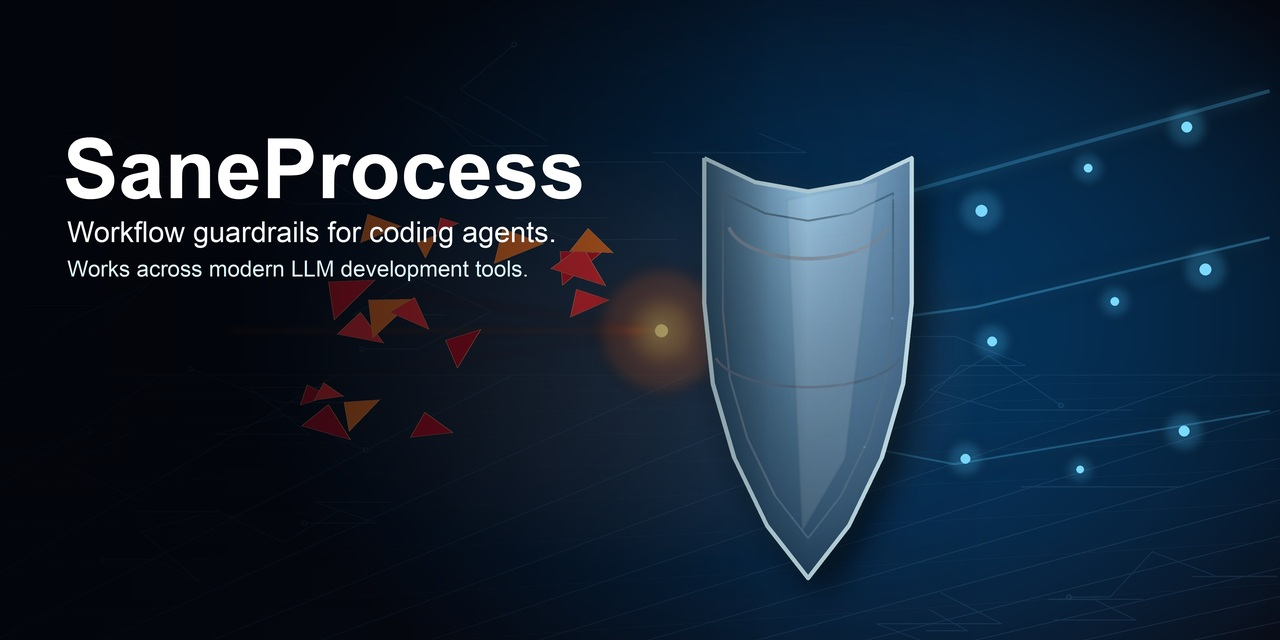
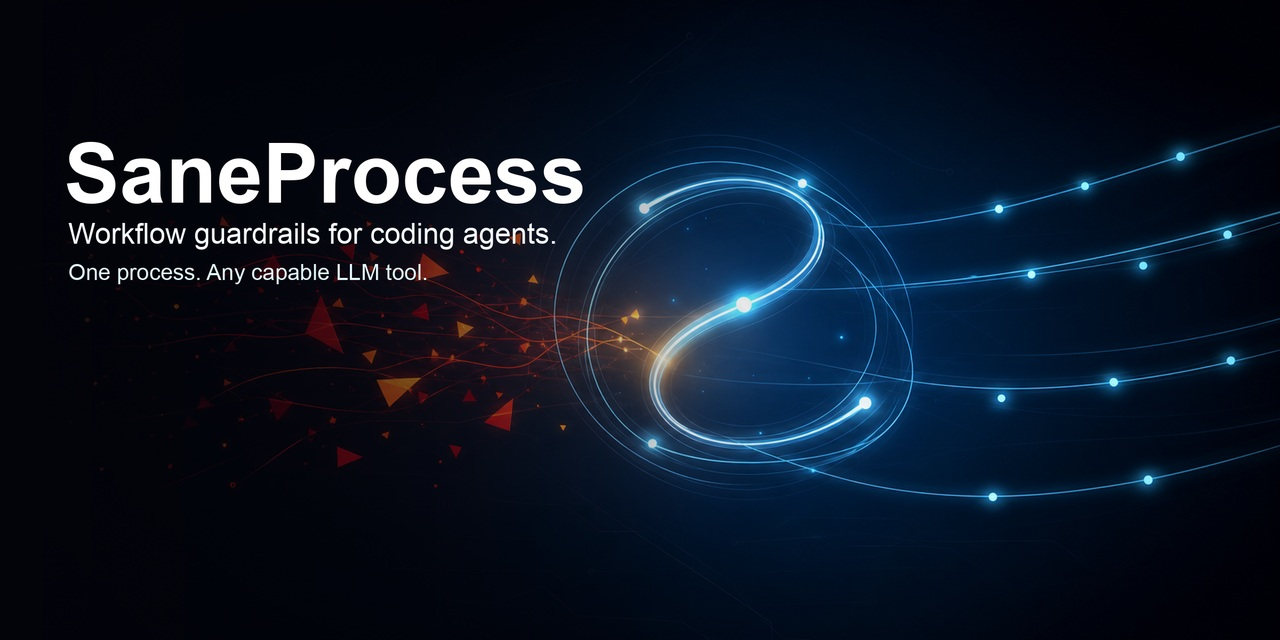
Generalize public docs and refresh visuals

diff --git a/README.md b/README.md
@@ -1,5 +1,5 @@
 <p align="center">
-  <img src="assets/hero-shield.jpeg" alt="SaneProcess - workflow enforcement for coding agents" width="100%">
+  <img src="assets/hero-process.jpeg" alt="SaneProcess - workflow guardrails for coding agents" width="100%">
 </p>
 
 # SaneProcess
@@ -40,9 +40,9 @@ ruby scripts/hooks/sanestop.rb --self-test
 | Agent rules | One `AGENTS.md` source of truth for compatible coding agents |
 | Native hook adapters | Prompt classification, research gates, path blocking, circuit breaker, session summaries where the client supports lifecycle hooks |
 | Codex path | `AGENTS.md`, `.agents/skills`, MCP, `~/.codex/config.toml`, and shared runtime guards |
-| `SaneMaster.rb` | One CLI for verify, release, status, tool discovery, support, metrics, Mini sync, and quality checks |
+| `SaneMaster.rb` | One CLI for verify, release, status, tool discovery, metrics, and quality checks |
 | Shared guards | Shell/script guardrails for risky paths where a client has no native pre-tool hook |
-| Mini-first workflows | Remote build/test/runtime verification on the Mac Mini build server for SaneApps work |
+| Optional runner adapters | Use local checks by default, or plug in your own remote runner/build host if your team has one |
 | Design-system checks | SaneUI drift detection for settings, About, license, and updater surfaces |
 
 ## Supported Clients
@@ -109,26 +109,25 @@ ruby scripts/SaneMaster.rb gate_review test/fixtures/gates/example.json
 ruby scripts/SaneMaster.rb saneui_guard /path/to/app
 ```
 
-SaneApps-specific installs also use it for sales/download/event reporting, support inbox workflows, release evidence, Mini sync, QA snapshots, and hosted-file drift checks. See [DEVELOPMENT.md](DEVELOPMENT.md) for the full command map.
+Project-specific installs can add their own release, support, analytics, or remote-runner commands behind the same wrapper pattern. See [DEVELOPMENT.md](DEVELOPMENT.md) for the full command map.
 
-## Mini-First Verification
+## Optional Remote Runners
 
-For SaneApps app work, the Mac Mini is the canonical build/test/runtime host. This keeps the controller machine clean and makes UI/runtime proof reproducible.
+SaneProcess does not require a second machine. The default path is local verification:
 
 ```bash
-ruby scripts/SaneMaster.rb sync_mini
-ruby ~/SaneApps/infra/SaneProcess/scripts/sane_test.rb SaneBar
+ruby scripts/SaneMaster.rb verify
 ```
 
-Mini runtime scripts live in [scripts/mini/README.md](scripts/mini/README.md). The direct `scripts/automation/sync-codex-mini.sh` script remains available, but operators should prefer the `SaneMaster.rb sync_mini` wrapper.
+Teams that already use a remote builder, CI runner, or dedicated test host can wire that through `SaneMaster.rb` so agents still call one safe project command instead of inventing raw build/test steps.
 
 ## SaneUI Guardrails
 
-SaneProcess also carries SaneApps design-system policy because visual drift is part of workflow drift.
+SaneProcess also carries SaneApps design-system policy as an example of enforcing product-specific UI rules alongside code workflow rules.
 
-For settings, About, license, updater, button-style, or typography work:
+For projects using SaneUI settings, About, license, updater, button-style, or typography surfaces:
 
-- Inspect `~/SaneApps/infra/SaneUI/Sources/SaneUICatalog/SaneUICatalogApp.swift` first.
+- Inspect the shared SaneUI catalog/source of truth first.
 - Compose shared `SaneSettingsContainer`, `SaneAboutView`, `LicenseSettingsView`, and `SaneSparkleRow`.
 - Keep shared settings text bright white and at least `13pt`.
 - Do not use `.secondary`, gray helper text, `mailto:` bug-report paths, `Manage Access` copy, app-local updater rows, local `SaneSparkleRow`, or `.buttonStyle(.bordered)` in those surfaces.
@@ -171,10 +170,9 @@ Client adapter state is stored locally in the relevant runtime directory; shared
 | File | Owns |
 |------|------|
 | [AGENTS.md](AGENTS.md) | Client-neutral operating rules, trigger map, required workflows |
-| [DEVELOPMENT.md](DEVELOPMENT.md) | Canonical commands, verification paths, Mini workflows, daily SOP |
+| [DEVELOPMENT.md](DEVELOPMENT.md) | Canonical commands, verification paths, daily SOP |
 | [ARCHITECTURE.md](ARCHITECTURE.md) | System design, decisions, research notes, tradeoffs |
 | [scripts/hooks/README.md](scripts/hooks/README.md) | Native hook layer |
-| [scripts/mini/README.md](scripts/mini/README.md) | Mini runtime/build-server scripts |
 | [scripts/codex-bin/README.md](scripts/codex-bin/README.md) | Codex helper source mirrored to `~/.codex/bin/` |
 
 The rule is deliberate: update an existing source-of-truth doc before adding another markdown file.
@@ -194,7 +192,6 @@ SaneProcess ships reusable skills that can be mirrored into `.agents/skills/` or
 scripts/
   hooks/          Native enforcement hooks and tests
   sanemaster/     SaneMaster command modules
-  mini/           Mac Mini runtime/build-server scripts
   automation/     Scripted automation helpers
   codex-bin/      Codex control-plane helper source
 skills/           Reusable repo skills

diff --git a/.github/copilot-instructions.md b/.github/copilot-instructions.md
@@ -2,14 +2,14 @@
 
 ## Project Overview
 
-SaneProcess is workflow enforcement for AI-assisted development across Claude Code, Codex, and compatible coding agents.
+SaneProcess is workflow enforcement for AI-assisted development across Codex, Claude Code, and compatible coding agents.
 
 It provides:
 
 - Client-neutral `AGENTS.md` operating rules
-- Claude-native lifecycle hooks
+- Native lifecycle-hook adapters
 - Codex-compatible skills, MCP guidance, and shared runtime guards
-- `SaneMaster.rb` wrappers for verify, release, status, tool discovery, support, Mini sync, metrics, and quality checks
+- `SaneMaster.rb` wrappers for verify, release, status, tool discovery, metrics, remote runners, and quality checks
 - SaneUI guardrails for shared settings/About/license/update surfaces
 
 ## Source Of Truth
@@ -29,8 +29,7 @@ Use `CLAUDE.md` only for Claude-specific overlay behavior. Do not put general po
 scripts/
   SaneMaster.rb        Main workflow CLI
   sanemaster/          SaneMaster command modules
-  hooks/               Claude-native hooks and tests
-  mini/                Mac Mini runtime/build-server scripts
+  hooks/               Native hook adapters and tests
   automation/          Automation helpers behind SaneMaster paths
   codex-bin/           Codex helper source mirrored to ~/.codex/bin/
 skills/                Reusable agent skills
@@ -51,7 +50,7 @@ templates/             Project/docs/release/UI templates
 
 For settings, About, license, updater, button-style, or typography work:
 
-- Inspect `~/SaneApps/infra/SaneUI/Sources/SaneUICatalog/SaneUICatalogApp.swift` first.
+- Inspect the shared SaneUI catalog/source of truth first.
 - Use shared `SaneSettingsContainer`, `SaneAboutView`, `LicenseSettingsView`, and `SaneSparkleRow` where applicable.
 - Keep shared settings text bright white and at least `13pt`.
 - Do not use `.secondary`, gray helper text, `mailto:` bug-report paths, `Manage Access` copy, app-local updater rows, local `SaneSparkleRow`, or `.buttonStyle(.bordered)` in settings/About/license/update UI.
@@ -75,4 +74,4 @@ ruby scripts/hooks/sanetrack.rb --self-test
 ruby scripts/hooks/sanestop.rb --self-test
 ```
 
-For SaneApps app runtime work, use the Mac Mini first. Do not replace Mini-first verification with local launches.
+Use `SaneMaster.rb verify` as the default proof path. When a project configures a remote runner or CI host, keep it behind a project wrapper so contributors do not need that private setup to understand or use SaneProcess.

diff --git a/templates/NEW_PROJECT_TEMPLATE.md b/templates/NEW_PROJECT_TEMPLATE.md
@@ -1,6 +1,7 @@
 # Sane* Project Template
 
-> Use this template when setting up a new Sane* project for Claude Code, Codex, and other compatible coding agents.
+> SaneApps internal template. Use this when setting up a new Sane* project for Claude Code, Codex, and other compatible coding agents.
+> Public adopters should treat hardcoded `~/SaneApps/...` paths and Sane* app names as examples to replace with their own repo paths and products.
 > Trigger: "set up project template for X" or "use project template for X"
 
 ## Quick Setup Checklist

diff --git a/templates/FULL_PROJECT_BOOTSTRAP.md b/templates/FULL_PROJECT_BOOTSTRAP.md
@@ -1,6 +1,7 @@
 # Full Sane* Project Bootstrap Guide
 
 > **Complete checklist for launching a new macOS app from scratch to distribution**
+> **SaneApps internal template:** replace SaneApps paths, shared keys, app names, release host choices, and private operational assumptions before reusing outside the SaneApps fleet.
 > Last updated: 2026-01-20 (Migrated to sane-apps org, removed Homebrew, added paid distribution model)
 
 ---

diff --git a/CONTRIBUTING.md b/CONTRIBUTING.md
@@ -30,7 +30,6 @@ SaneProcess/
     SaneMaster.rb       Main workflow CLI
     hooks/              Native hook layer
     sanemaster/         CLI command modules
-    mini/               Mac Mini runtime scripts
     automation/         Helper scripts behind canonical wrappers
   templates/            Project/docs/release/UI templates
   skills/               Reusable agent skills
